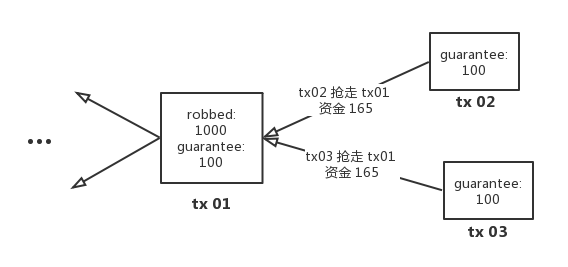
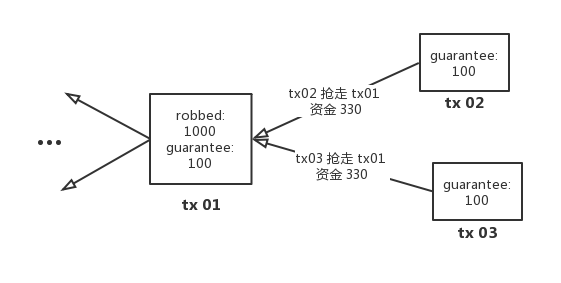
update images and data

Changed region(s): [[0.0909, 0.0899, 0.9394, 0.779], [0.697, 0.5693, 0.9394, 0.8989], [0.0303, 0.4794, 0.1212, 0.5393]]

diff --git a/hack-final.md b/hack-final.md
@@ -117,13 +117,9 @@ Dag的图结构使得交易之间存在一种直接的连接关系。在OG中，
 
 有基于此，在本次黑客松中我们对这种交易间的父子关系增加了一个特殊的效果：
 
-**前序交易parent会被后序交易child抢走部分资金**
-
-  
+**前序交易parent会被后序交易child抢走部分资金
 
 ![抢劫简单示例图](./抢劫简单示例图.png)
-
-  
 
 如图所示，如果 `Tx03` 的 parents 为 `Tx01` 和`Tx02`，则 `Tx03` 会抢走它 parents 交易`Tx01` 和 `Tx02`的部分资金。
 
@@ -135,7 +131,7 @@ Dag的图结构使得交易之间存在一种直接的连接关系。在OG中，
 
 每个Sequencer都会有一个 `treasure` 字段，表示空投的金额。如果 Seq 被普通交易tx认作parent，则此 tx 会抢走`treasure`的资金。
 
-![抢钱规则01](./抢钱规则01.png)  
+![抢钱规则01](/Users/heeeeng/资料/众安/2019黑客松/决赛/hack_doc/抢钱规则01.png)
 
 如果有多个 交易tx 将此 Seq 认作 parent，则所有的这些 tx 共同瓜分 `treasure` 。为了明确瓜分的比例，所有的tx必须提供一个`guarantee` 保证金字段，根据各个交易tx的保证金比例来决定瓜分的比例：
 
@@ -147,23 +143,23 @@ Dag的图结构使得交易之间存在一种直接的连接关系。在OG中，
 
 #### 规则2. Rob
 
-如果普通交易tx01被其他交易认作 parent，则 tx01**从 parents 抢到的钱**和**它自己的保证金**都会以一定比例被其child 抢走。在我们的系统中，这个比例是 40%。
+如果普通交易tx01被其他交易认作 parent，则 tx01**从 parents 抢到的钱**和**它自己的保证金**都会以一定比例被其child 抢走。在我们的系统中，这个比例是 60%。
 
 ![规则02.01](./规则02.01.png)
 
-如上图，假设tx01已经从它的parents中抢得 1000。此后它被 tx02 和 tx03 跟随，那么tx01 抢到的钱和保证金就会被`tx02`和`tx03`瓜分掉40%。
+如上图，假设tx01已经从它的parents中抢得 1000。此后它被 tx02 和 tx03 跟随，那么tx01 抢到的钱和保证金就会被`tx02`和`tx03`瓜分掉60%。
 
-`tx01` 抢到了 1000，保证金是 100，所以最后会被后序交易抢走 `1000*40%+100*40%=440`。由于`tx02`和`tx03`的保证金都是100，所以他们每人抢得金额为`440*(1/2)=220`。
+`tx01` 抢到了 1000，保证金是 100，所以最后会被后序交易抢走 `1000*60%+100*60%=660`。由于`tx02`和`tx03`的保证金都是100，所以他们每人抢得金额为`660*(1/2)=330`。
 
   
 
 #### 规则3. 查封和清算
 
--  **查封：**每个Sequencer除了扮演新一轮的空投角色外，还要负责上一轮的查封和清算工作。当 Sequencer 产生时，它会将当前所有未被其他交易跟随的 tips 都认作自己的parent。所有最后被sequencer跟随的交易都会被Sequencer抢走部分资金，抢钱逻辑和**规则2**一致，但是被抢的比例为 **50%**。我们称这个过程查封。
+-  **查封：**每个Sequencer除了扮演新一轮的空投角色外，还要负责上一轮的查封和清算工作。当 Sequencer 产生时，它会将当前所有未被其他交易跟随的 tips 都认作自己的parent。所有最后被sequencer跟随的交易都会被Sequencer抢走部分资金，抢钱逻辑和**规则2**一致，但是被抢的比例为 **65%**。我们称这个过程查封。
 
 ![规则03.01](./规则03.01.png)
 
-如图所示，tx01 会被seq抢走 `1000*50% + 100*50% = 550`, tx02 和 tx03 同理。
+如图所示，tx01 会被seq抢走 `1000*65% + 100*65% = 715`, tx02 和 tx03 同理。
 
 -  **清算：**每一轮游戏都以一个新的seq产生做为开始，以下一个新的seq产生做为结束。只有等下一个seq产生时，本轮的所有收益或者支出才会进行结算。所有被查封的金额全都会被销毁，不会计入任何人的账户中。每一笔交易的收益计算如下公式：
 
